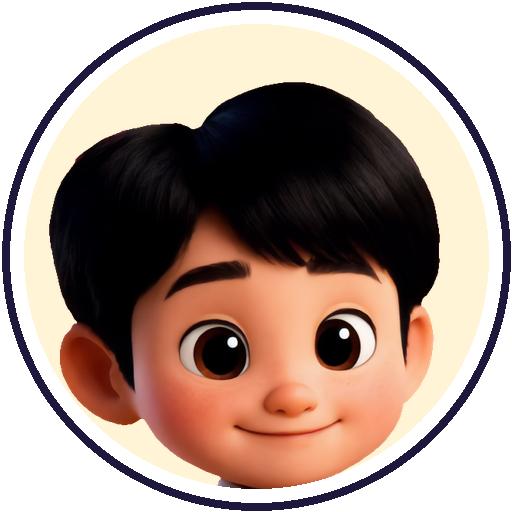
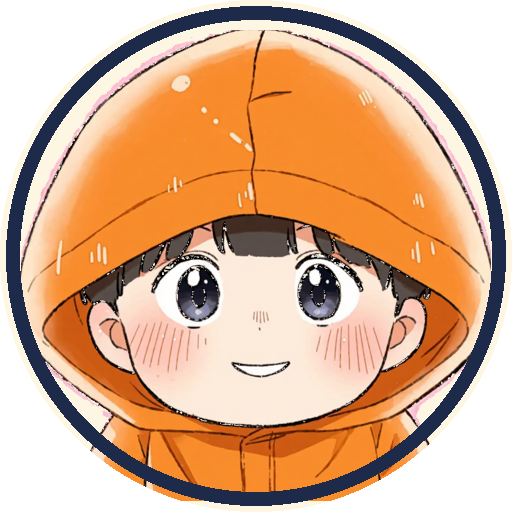
78차: 꼬마 집사 컷씬 주황 우비 통일, versionCode 23
시네마틱 KID 바이블과 맞춘 집사 4종 교체, 시네마 스모크 스크립트와 APK 23을 반영한다.

diff --git a/Tools/Mcp/cine_smoke.py b/Tools/Mcp/cine_smoke.py
@@ -1,0 +1,159 @@
+#!/usr/bin/env python3
+# -*- coding: utf-8 -*-
+"""시네마틱 스모크 — CoastRemote Dev/Cine 메뉴 + 캡처."""
+import json, socket, time, sys
+from pathlib import Path
+
+PORT = 47001
+SHOT = Path(r"C:\dev\game\Tools\_shots")
+SHOT.mkdir(parents=True, exist_ok=True)
+
+
+def send(cmd, timeout=60.0):
+    s = socket.create_connection(("127.0.0.1", PORT), timeout=timeout)
+    try:
+        s.sendall((cmd + "\n").encode("utf-8"))
+        buf = b""
+        s.settimeout(timeout)
+        while not buf.endswith(b"\n"):
+            chunk = s.recv(65536)
+            if not chunk:
+                break
+            buf += chunk
+        txt = buf.decode("utf-8", "replace").strip()
+        try:
+            return json.loads(txt) if txt else {}
+        except Exception:
+            return {"raw": txt}
+    finally:
+        s.close()
+
+
+def wait_ready(sec=90):
+    t0 = time.time()
+    while time.time() - t0 < sec:
+        try:
+            st = send("status", 8)
+            if st and not st.get("compiling") and not st.get("updating"):
+                return st
+        except Exception:
+            pass
+        time.sleep(1.5)
+    return {}
+
+
+def ensure_play():
+    st = send("status")
+    if st.get("playing"):
+        if st.get("paused"):
+            send("pause")
+        return st
+    send("stop")
+    time.sleep(1)
+    send("menu Coast Run/Play From Boot (recommended) %&b")
+    time.sleep(0.5)
+    send("play")
+    for _ in range(40):
+        st = send("status")
+        if st.get("playing"):
+            break
+        time.sleep(0.5)
+    time.sleep(2.5)
+    # dismiss title / splash taps
+    send("tap 0.5 0.85"); time.sleep(1.0)
+    send("tap 0.5 0.85"); time.sleep(1.5)
+    return send("status")
+
+
+def shot(name, wait=0.6):
+    time.sleep(wait)
+    r = send(f"shot {name}")
+    p = SHOT / f"{name}.png"
+    for _ in range(30):
+        if p.exists() and p.stat().st_size > 1500:
+            return True, r
+        time.sleep(0.15)
+    return False, r
+
+
+def advance_cuts(n=8, dt=0.35):
+    for _ in range(n):
+        send("key Space")
+        time.sleep(dt)
+
+
+def play_cine(menu_suffix, tag, advances=10):
+    print(f"=== {tag} ===")
+    r = send(f"menu Coast Run/Dev/Cine - {menu_suffix}")
+    print("menu", r)
+    time.sleep(1.2)
+    ok0, _ = shot(f"cine_{tag}_0", 0.8)
+    advance_cuts(advances, 0.4)
+    ok1, _ = shot(f"cine_{tag}_mid", 0.4)
+    # long skip / finish
+    send("key S"); time.sleep(0.8)
+    send("key Space"); time.sleep(0.6)
+    send("key S"); time.sleep(1.0)
+    ok2, _ = shot(f"cine_{tag}_end", 0.5)
+    # dismiss title card if still up
+    send("tap 0.5 0.5"); time.sleep(0.6)
+    send("key Space"); time.sleep(0.5)
+    print(f"shots {tag}: start={ok0} mid={ok1} end={ok2}")
+    return ok0 and ok1
+
+
+def main():
+    print("status", wait_ready())
+    send("clearlog")
+    st = ensure_play()
+    print("play", {k: st.get(k) for k in ("playing", "paused", "scene", "compileErrors")})
+    if not st.get("playing"):
+        print("FAIL: not playing")
+        return 1
+
+    send("gameview")
+    shot("cine_boot", 0.5)
+
+    results = []
+    # OPEN + a few cuts + ending sample (full CS1~8 would be long; cover representative set)
+    for suffix, tag, n in [
+        ("OPEN", "open", 12),
+        ("CS1", "cs1", 10),
+        ("CS4", "cs4", 10),
+        ("CS8", "cs8", 10),
+        ("END_A", "enda", 10),
+        ("Select", "select", 0),
+    ]:
+        if suffix == "Select":
+            print("=== select ===")
+            r = send("menu Coast Run/Dev/Cine - Select")
+            print("menu", r)
+            time.sleep(1.0)
+            ok, _ = shot("cine_select", 0.8)
+            results.append(("select", ok))
+            send("key Escape"); time.sleep(0.4)
+            send("tap 0.92 0.08"); time.sleep(0.5)  # try X
+            continue
+        ok = play_cine(suffix, tag, n)
+        results.append((tag, ok))
+        time.sleep(0.8)
+
+    st = send("status")
+    log = send("log 80")
+    print("final", json.dumps({k: st.get(k) for k in ("playing", "paused", "scene", "compileErrors")}, ensure_ascii=False))
+    print("log", json.dumps(log, ensure_ascii=False)[:2500])
+    print("RESULTS", results)
+    errs = (st.get("compileErrors") or "")
+    fails = [t for t, ok in results if not ok]
+    if errs:
+        print("COMPILE ERRORS:", errs)
+        return 2
+    if fails:
+        print("SHOT FAILS:", fails)
+        return 1
+    print("OK")
+    return 0
+
+
+if __name__ == "__main__":
+    sys.exit(main())
